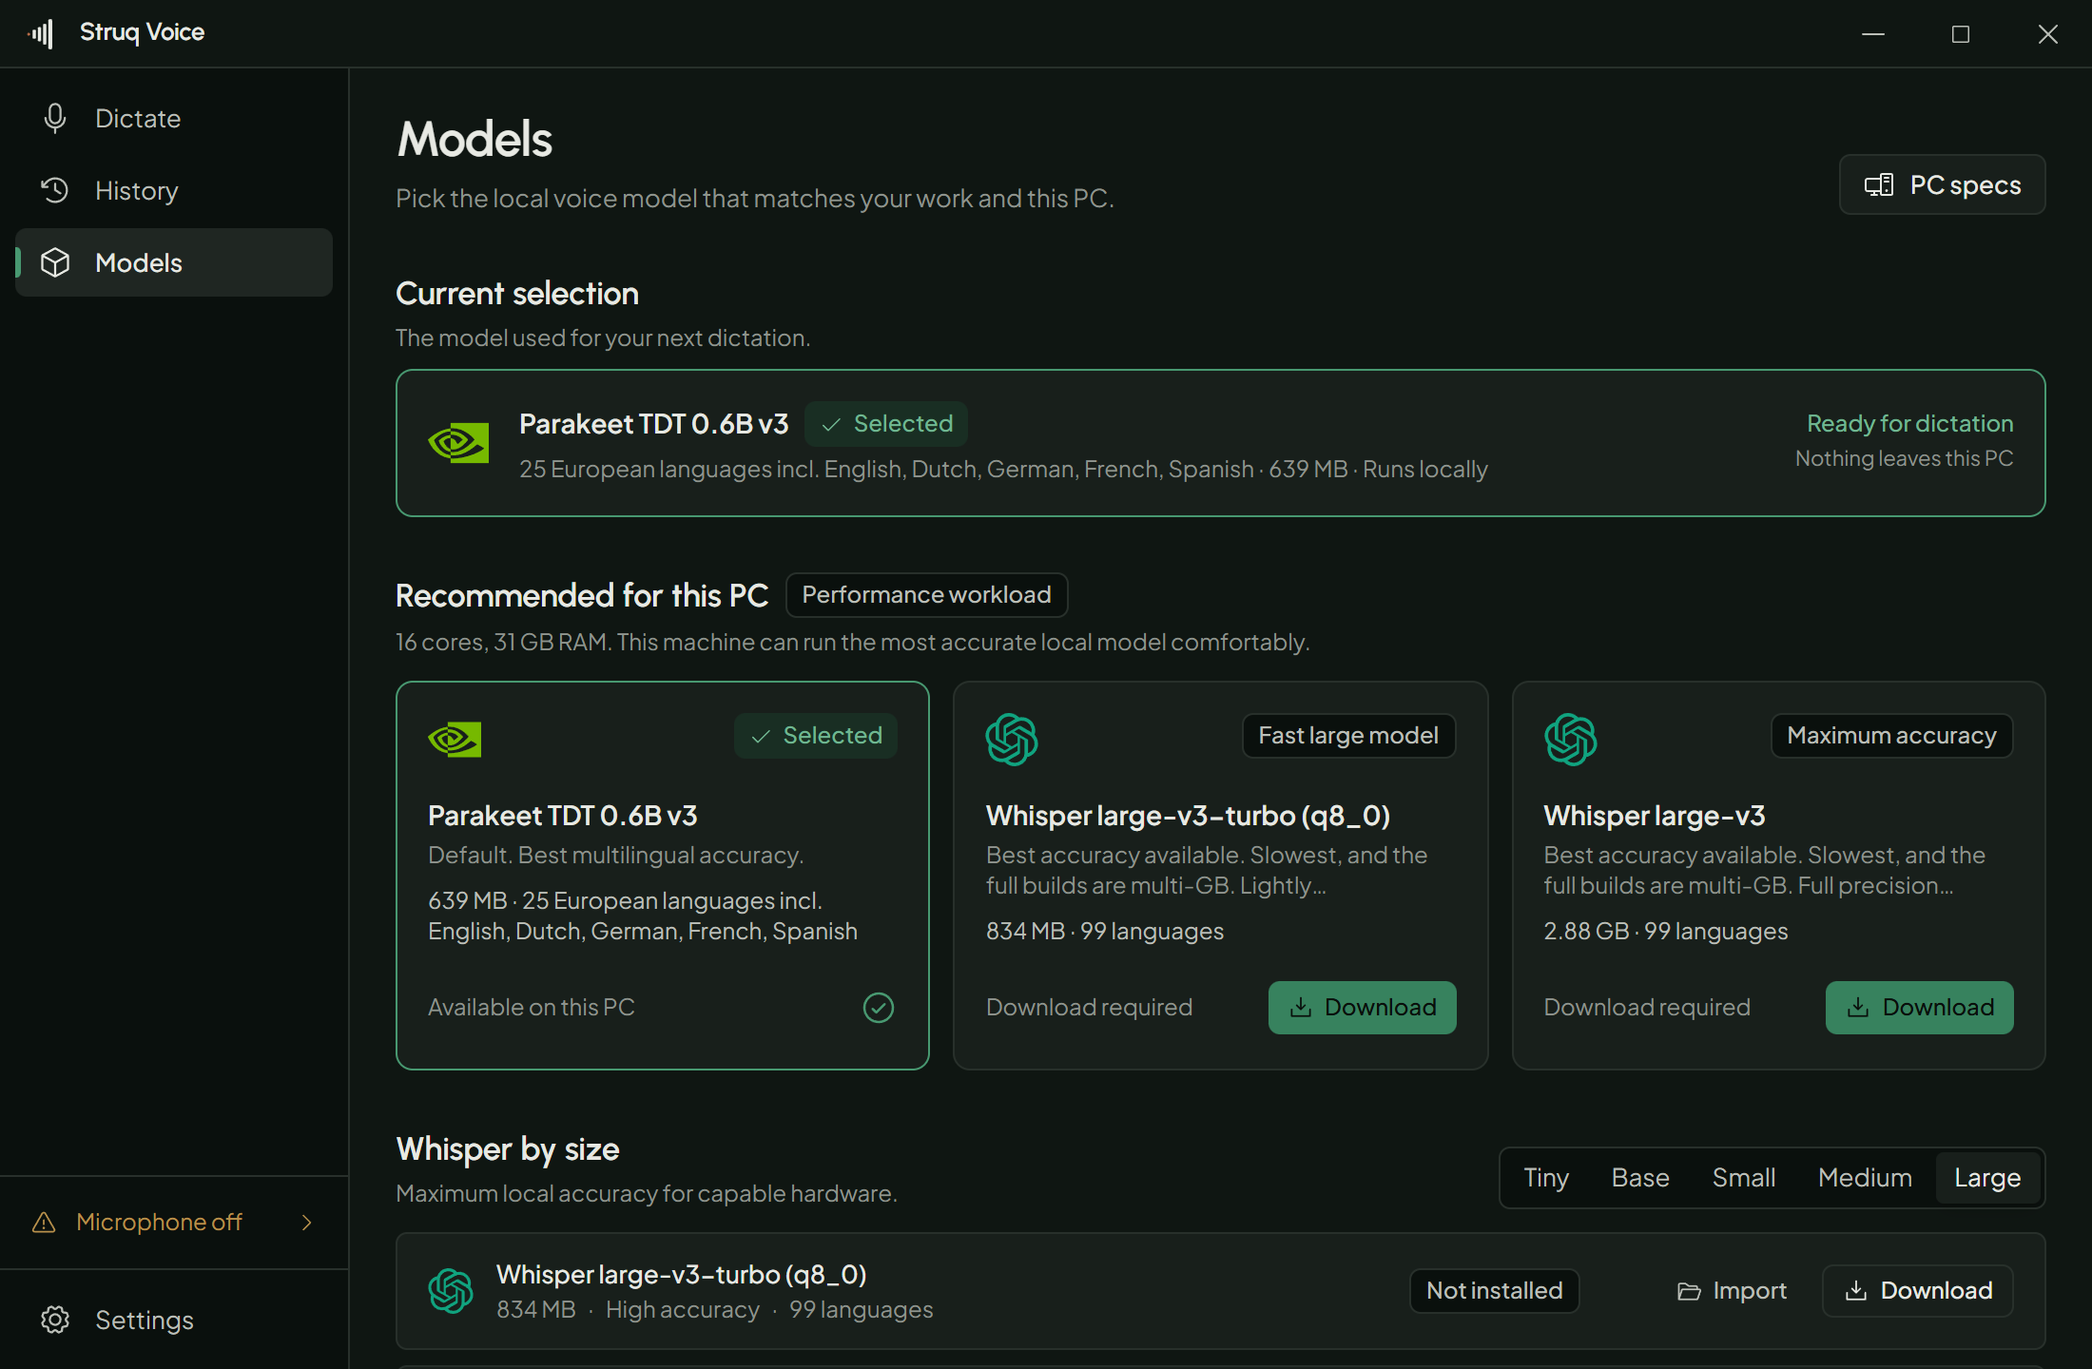
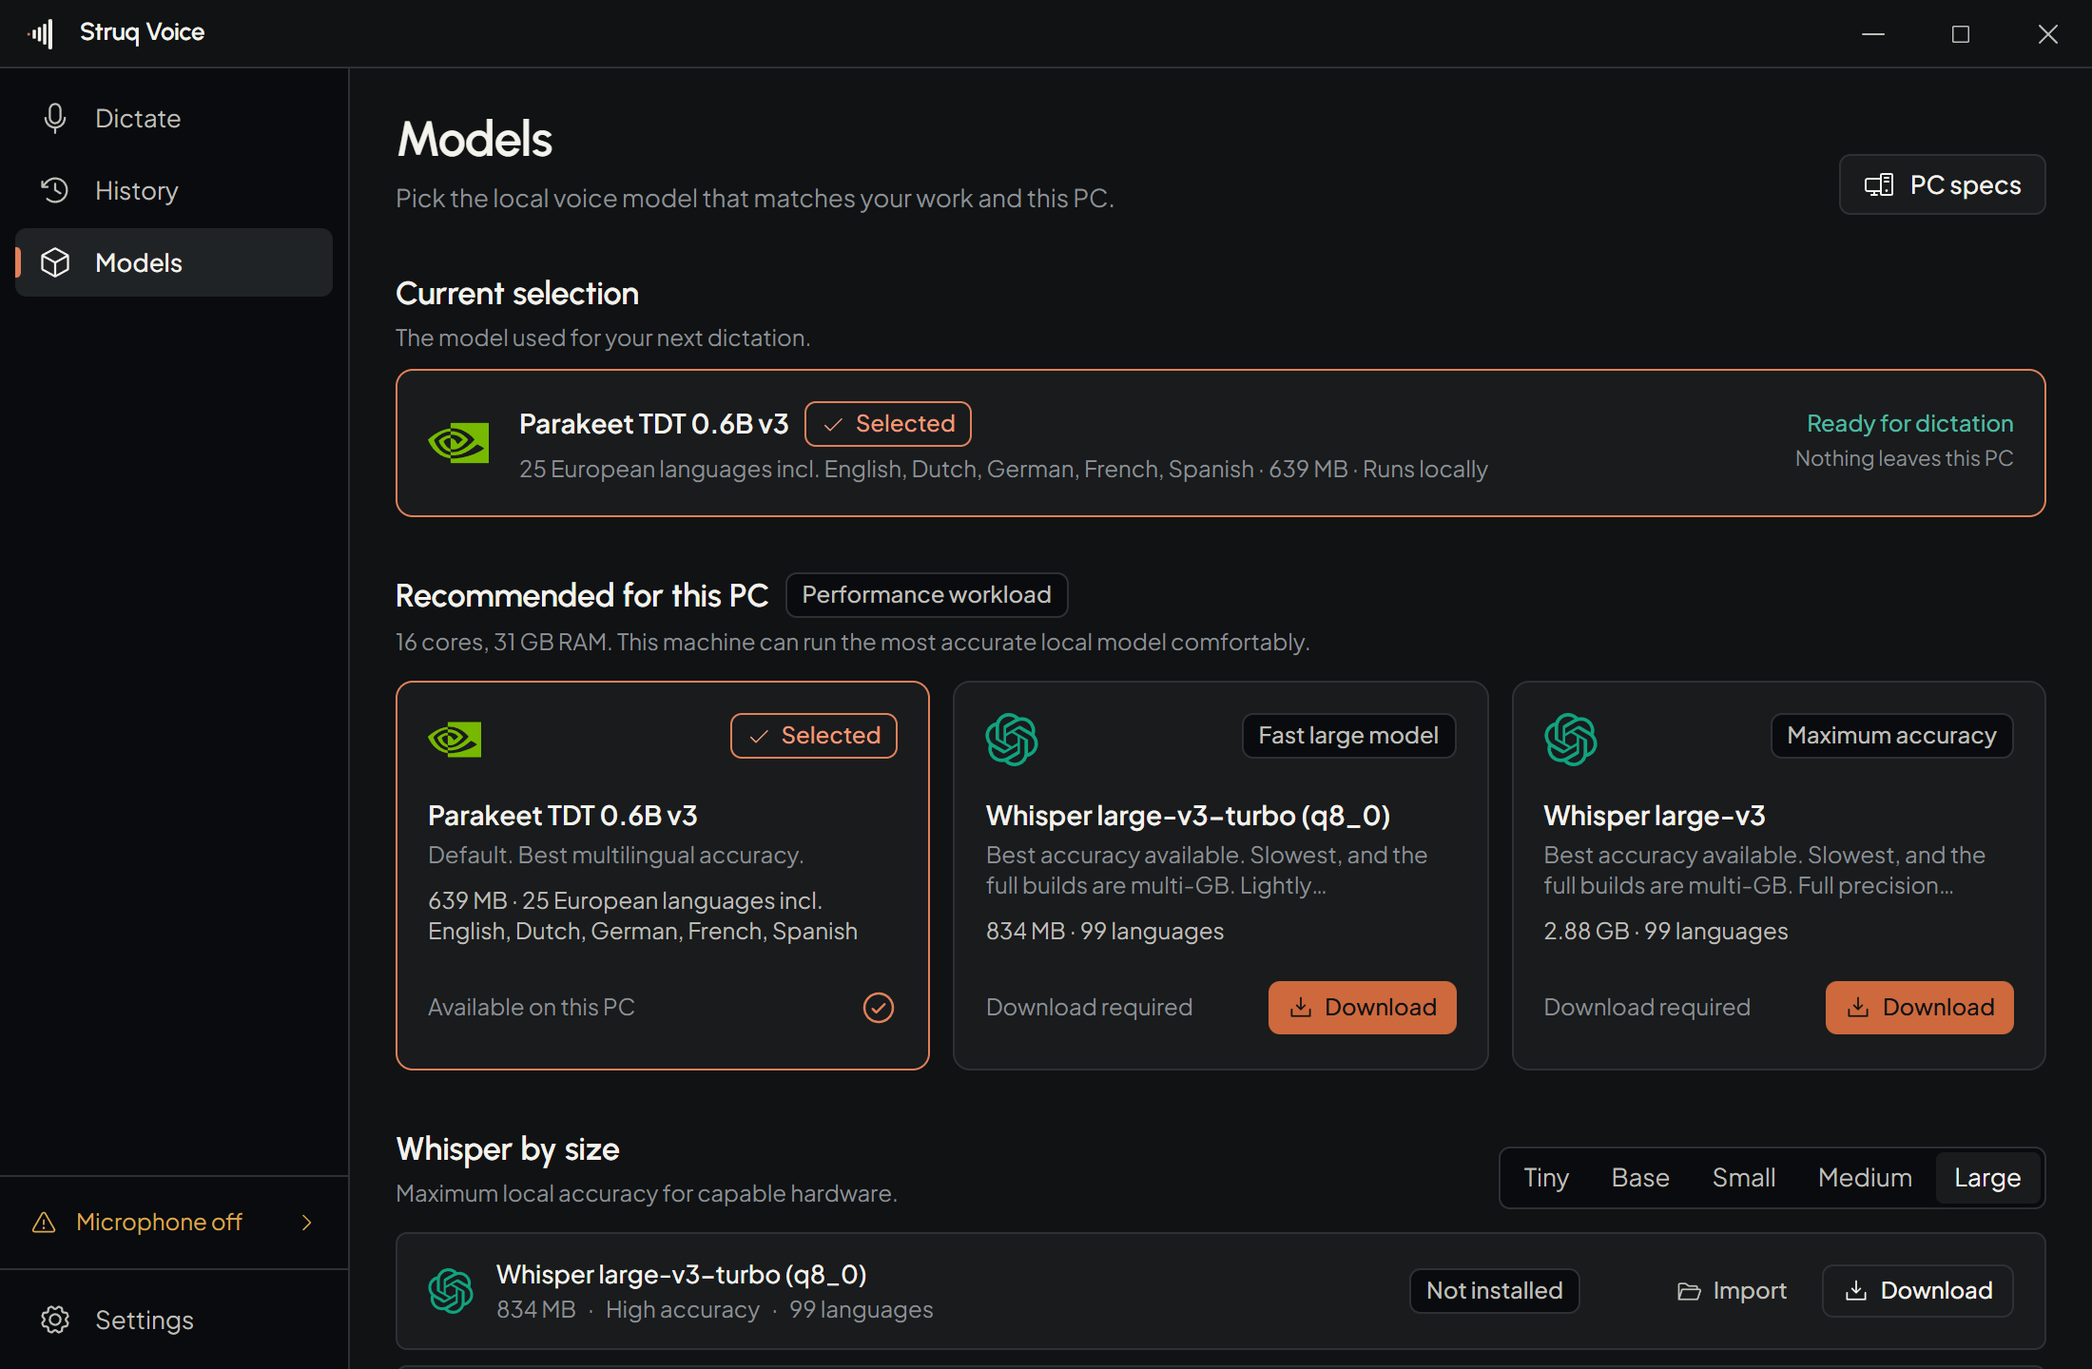
feat: implement full-window onboarding, hardware profiling, theme configuration, and audio visualizer components

diff --git a/src/renderer/styles/theme.css b/src/renderer/styles/theme.css
@@ -7,12 +7,13 @@
    regenerating any CSS.
 
    The semantic set (bg, surface, text, border, accent, state-*) is stable
-   across both palettes. Hue and chroma hold, lightness moves.
+   across both palettes. The role holds even where dark mode deliberately
+   moves the interaction accent from evergreen to terracotta.
 
    Every *-soft token is opaque, never an alpha of its base colour. A
    translucent fill composites with whatever sits behind it, so the same
    badge reads differently on bg, on surface, and on the transparent overlay
-   window. Each tint is authored per theme instead.
+   window. Dark soft states resolve to the same opaque neutral surface.
 
    DENSITY CONTRACT. This is a desktop chrome, not a document. Use Tailwind's
    native 4px scale and pick from these sizes only:
@@ -137,33 +138,33 @@
 
 :root[data-theme="dark"] {
   color-scheme: dark;
-  --sv-bg: oklch(0.19 0.012 160);
-  --sv-bg-sunken: oklch(0.165 0.012 160);
-  --sv-surface: oklch(0.23 0.013 160);
-  --sv-surface-hover: oklch(0.26 0.013 160);
-  --sv-surface-active: oklch(0.29 0.014 160);
-  --sv-text: oklch(0.93 0.008 120);
-  --sv-text-secondary: oklch(0.8 0.01 130);
-  --sv-text-muted: oklch(0.66 0.012 140);
-  --sv-text-inverse: oklch(0.16 0.012 160);
-  --sv-border: oklch(0.3 0.014 160);
-  --sv-border-strong: oklch(0.38 0.015 160);
-  --sv-accent: oklch(0.62 0.1 160);
-  --sv-accent-solid: oklch(0.55 0.095 160);
-  --sv-accent-solid-hover: oklch(0.59 0.095 160);
-  --sv-accent-solid-active: oklch(0.63 0.095 160);
-  --sv-accent-text: oklch(0.72 0.09 160);
-  --sv-accent-soft: oklch(0.28 0.035 160);
-  --sv-ember: oklch(0.65 0.12 45);
-  --sv-ember-soft: oklch(0.3 0.04 45);
-  --sv-success: oklch(0.68 0.1 155);
-  --sv-success-soft: oklch(0.28 0.035 155);
-  --sv-warning: oklch(0.68 0.1 80);
-  --sv-warning-soft: oklch(0.29 0.04 80);
-  --sv-danger: oklch(0.62 0.13 25);
-  --sv-danger-soft: oklch(0.28 0.045 25);
-  --sv-info: oklch(0.66 0.07 230);
-  --sv-info-soft: oklch(0.28 0.03 230);
+  --sv-bg: oklch(0.18 0.005 250);
+  --sv-bg-sunken: oklch(0.15 0.006 250);
+  --sv-surface: oklch(0.22 0.006 250);
+  --sv-surface-hover: oklch(0.255 0.007 250);
+  --sv-surface-active: oklch(0.285 0.008 250);
+  --sv-text: oklch(0.96 0.008 95);
+  --sv-text-secondary: oklch(0.8 0.008 95);
+  --sv-text-muted: oklch(0.65 0.008 250);
+  --sv-text-inverse: oklch(0.18 0.005 250);
+  --sv-border: oklch(0.31 0.008 250);
+  --sv-border-strong: oklch(0.4 0.01 250);
+  --sv-accent: oklch(0.7 0.13 43);
+  --sv-accent-solid: oklch(0.63 0.14 43);
+  --sv-accent-solid-hover: oklch(0.68 0.14 43);
+  --sv-accent-solid-active: oklch(0.58 0.14 43);
+  --sv-accent-text: oklch(0.76 0.11 43);
+  --sv-accent-soft: var(--sv-surface-active);
+  --sv-ember: oklch(0.7 0.13 43);
+  --sv-ember-soft: var(--sv-surface-active);
+  --sv-success: oklch(0.72 0.105 175);
+  --sv-success-soft: var(--sv-surface-active);
+  --sv-warning: oklch(0.76 0.12 80);
+  --sv-warning-soft: var(--sv-surface-active);
+  --sv-danger: oklch(0.68 0.16 28);
+  --sv-danger-soft: var(--sv-surface-active);
+  --sv-info: oklch(0.7 0.1 260);
+  --sv-info-soft: var(--sv-surface-active);
 }
 
 /* ---------------------------------------------------------------------------

diff --git a/src/renderer/main/views/settings/CaptureTab.tsx b/src/renderer/main/views/settings/CaptureTab.tsx
@@ -1,4 +1,6 @@
+import { useEffect, useState } from "react";
 import type { JSX } from "react";
+import { Icon } from "@iconify/react";
 import type { MainWindowApi } from "../../../../shared/api";
 import type { RecorderDevice } from "../../../../shared/ipc";
 import type { Settings } from "../../../../shared/settings";
@@ -12,6 +14,7 @@ import {
   Slider,
   Switch
 } from "../../components/ui";
+import { MicrophoneMeter } from "../../components/MicrophoneMeter";
 
 /**
  * The Capture settings tab: the keys, the microphone, the sounds Struq
@@ -33,6 +36,17 @@ export function CaptureTab({
   devices,
   currentDeviceId
 }: CaptureTabProps): JSX.Element {
+  const [level, setLevel] = useState(0);
+
+  useEffect(() => {
+    return api.onCaptureLevelsChanged(({ level: next }) => {
+      setLevel((current) => Math.max(current * 0.6, next * 0.4));
+    });
+  }, [api]);
+
+  const meterValue = Math.min(100, Math.max(0, Math.round(level * 100)));
+  const signalDetected = meterValue >= 3;
+
   return (
     <div className="flex flex-col gap-6">
       <SettingsGroup
@@ -94,6 +108,24 @@ export function CaptureTab({
             </div>
           }
         />
+        <div className="px-4 py-3">
+          <div className="mb-2 flex items-center justify-between gap-3">
+            <div className="flex min-w-0 items-center gap-2">
+              <Icon
+                icon="ph:waveform"
+                className={signalDetected ? "h-4 w-4 shrink-0 text-accent" : "h-4 w-4 shrink-0 text-text-muted"}
+                aria-hidden="true"
+              />
+              <span className="text-xs font-medium text-text">
+                {signalDetected ? "Signal detected" : "Speak to test your microphone"}
+              </span>
+            </div>
+            <span className="shrink-0 text-2xs text-text-muted tabular-nums" data-numeric>
+              {String(meterValue)}%
+            </span>
+          </div>
+          <MicrophoneMeter level={level} label="Microphone test level" />
+        </div>
       </SettingsGroup>
 
       <SettingsGroup

diff --git a/src/renderer/main/components/ui/StatusDot.tsx b/src/renderer/main/components/ui/StatusDot.tsx
@@ -1,14 +1,13 @@
 import type { JSX } from "react";
 import { cn } from "../../lib/cn";
+import { RecordingBall } from "../../../shared/RecordingBall";
 
 /**
  * A small filled dot. Colour alone names the state of whatever it sits next
  * to: red for an error, green for ready and live capture.
  *
- * It does not pulse. An indicator that breathes forever draws the eye to a
- * thing that is not changing, and it is the loudest generic-web-app tell in
- * a desktop chrome. Live capture already has the overlay waveform, which
- * moves because the audio is actually moving.
+ * Static states do not pulse. Listening replaces the dot with the supplied
+ * bouncing-ball mark because that motion represents a capture in progress.
  */
 export type StatusState =
   | "idle"
@@ -40,13 +39,19 @@ const STATE_COLOR: Record<StatusState, string> = {
 };
 
 export function StatusDot({ state, size = "md", className }: StatusDotProps): JSX.Element {
+  if (state === "listening") {
+    return (
+      <RecordingBall
+        className={cn(size === "sm" ? "h-3 w-3" : "h-4 w-4", className)}
+      />
+    );
+  }
+
   const sizeClass = size === "sm" ? "h-1.5 w-1.5" : "h-2 w-2";
   return (
-    <span className={cn("relative inline-flex shrink-0", sizeClass, className)} aria-hidden="true">
-      {state === "listening" && (
-        <span className="absolute inset-0 rounded-pill bg-success opacity-40 motion-safe:animate-ping" />
-      )}
-      <span className={cn("relative h-full w-full rounded-pill", STATE_COLOR[state])} />
-    </span>
+    <span
+      className={cn("inline-flex shrink-0 rounded-pill", sizeClass, STATE_COLOR[state], className)}
+      aria-hidden="true"
+    />
   );
 }

diff --git a/src/renderer/main/lib/theme-contract.test.ts b/src/renderer/main/lib/theme-contract.test.ts
@@ -1,0 +1,34 @@
+import { readFileSync } from "node:fs";
+import { resolve } from "node:path";
+import { describe, expect, it } from "vitest";
+
+const RENDERER_ROOT = resolve(__dirname, "../..");
+const THEME_SOURCE = readFileSync(resolve(RENDERER_ROOT, "styles/theme.css"), "utf8");
+
+const darkTheme = (): string => {
+  const match = THEME_SOURCE.match(/:root\[data-theme="dark"\]\s*\{([\s\S]*?)\n\}/);
+  return match?.[1] ?? "";
+};
+
+describe("dark theme contract", () => {
+  it("uses neutral graphite surfaces and terracotta interaction emphasis", () => {
+    const source = darkTheme();
+    expect(source).toContain("--sv-bg: oklch(0.18 0.005 250)");
+    expect(source).toContain("--sv-surface: oklch(0.22 0.006 250)");
+    expect(source).toContain("--sv-accent: oklch(0.7 0.13 43)");
+  });
+
+  it("keeps every soft semantic state opaque and neutral", () => {
+    const source = darkTheme();
+    for (const token of ["accent", "ember", "success", "warning", "danger", "info"]) {
+      expect(source).toContain(`--sv-${token}-soft: var(--sv-surface-active)`);
+    }
+    expect(source).not.toMatch(/oklch\([^)]*\//);
+  });
+
+  it("does not restore a translucent green listening pulse", () => {
+    const overlay = readFileSync(resolve(RENDERER_ROOT, "overlay/overlay.tsx"), "utf8");
+    const statusDot = readFileSync(resolve(RENDERER_ROOT, "main/components/ui/StatusDot.tsx"), "utf8");
+    expect(`${overlay}\n${statusDot}`).not.toMatch(/bg-success[^"\n]*opacity|bg-success\//);
+  });
+});

diff --git a/src/renderer/main/views/DictateView.tsx b/src/renderer/main/views/DictateView.tsx
@@ -3,6 +3,7 @@ import type { JSX } from "react";
 import { Icon } from "@iconify/react";
 import { useMainStore } from "../store/use-main-store";
 import { PageBody } from "../components/PageHeader";
+import { MicrophoneMeter } from "../components/MicrophoneMeter";
 import { Button, IconButton, Kbd, SettingsGroup, StatTile, Sparkline } from "../components/ui";
 import type { MainWindowApi } from "../../../shared/api";
 import type { Settings } from "../../../shared/settings";
@@ -152,8 +153,6 @@ export function DictateView(): JSX.Element {
         : null;
 
   const phaseLabel = PHASE_LABEL[capture.phase];
-  const meterWidth = Math.min(100, Math.round(level * 100));
-
   return (
     <div className="flex h-full flex-col bg-bg">
       <PageBody>
@@ -237,19 +236,7 @@ export function DictateView(): JSX.Element {
               <Kbd accelerator={settings.toggleAccelerator} size="md" />
             </div>
           </div>
-          <div
-            className="h-1 w-full overflow-hidden rounded-pill bg-bg-sunken"
-            role="meter"
-            aria-valuemin={0}
-            aria-valuemax={100}
-            aria-valuenow={meterWidth}
-            aria-label="Microphone level"
-          >
-            <div
-              className="h-full rounded-pill bg-accent transition-[width] duration-75"
-              style={{ width: `${String(meterWidth)}%` }}
-            />
-          </div>
+          <MicrophoneMeter level={level} />
         </div>
 
         <SettingsGroup

diff --git a/src/renderer/overlay/overlay.tsx b/src/renderer/overlay/overlay.tsx
@@ -7,6 +7,7 @@ import type { CaptureState } from "../../shared/capture";
 import { INITIAL_CAPTURE_STATE } from "../../shared/capture";
 import { Waveform } from "./Waveform";
 import { useDragPanel } from "./useDragPanel";
+import { RecordingBall } from "../shared/RecordingBall";
 
 const BAR_COUNT = 32;
 const SILENT_BANDS: readonly number[] = Array.from({ length: BAR_COUNT }, () => 0);
@@ -20,21 +21,18 @@ const formatElapsed = (ms: number): string => {
 };
 
 function StateDot({ state }: { readonly state: "arming" | "listening" | "transcribing" | "error" }): JSX.Element {
+  if (state === "listening") {
+    return <RecordingBall className="h-4 w-4" />;
+  }
+
   const color =
-    state === "listening"
-      ? "var(--sv-success)"
-      : state === "transcribing"
+    state === "transcribing"
         ? "var(--sv-info)"
         : state === "error"
           ? "var(--sv-danger)"
           : "var(--sv-accent)";
   return (
-    <span className="relative flex h-2 w-2 shrink-0" aria-hidden="true">
-      {state === "listening" && (
-        <span className="absolute inset-0 rounded-pill bg-success opacity-40 motion-safe:animate-ping" />
-      )}
-      <span className="relative h-full w-full rounded-pill" style={{ backgroundColor: color }} />
-    </span>
+    <span className="h-2 w-2 shrink-0 rounded-pill" style={{ backgroundColor: color }} aria-hidden="true" />
   );
 }
 

diff --git a/src/renderer/shared/RecordingBall.tsx b/src/renderer/shared/RecordingBall.tsx
@@ -1,0 +1,34 @@
+import { useId } from "react";
+import type { JSX } from "react";
+import { useReducedMotion } from "motion/react";
+import bouncingBallSvg from "../../../bouncing-ball.svg?raw";
+
+export interface RecordingBallProps {
+  readonly className?: string;
+}
+
+/** The supplied recording mark, themed through currentColor and static when motion is reduced. */
+export function RecordingBall({ className = "h-4 w-4" }: RecordingBallProps): JSX.Element {
+  const reducedMotion = useReducedMotion();
+  const instanceId = useId().replaceAll(":", "");
+  const markup = bouncingBallSvg
+    .replaceAll("spinner_jbYs", `${instanceId}_drop`)
+    .replaceAll("spinner_ADF4", `${instanceId}_squash`)
+    .replaceAll("spinner_JZdr", `${instanceId}_rise`);
+
+  if (reducedMotion === true) {
+    return (
+      <svg viewBox="0 0 24 24" className={`${className} shrink-0 text-success`} aria-hidden="true">
+        <circle cx="12" cy="12" r="4" fill="currentColor" />
+      </svg>
+    );
+  }
+
+  return (
+    <span
+      className={`inline-flex shrink-0 text-success [&>svg]:h-full [&>svg]:w-full ${className}`}
+      aria-hidden="true"
+      dangerouslySetInnerHTML={{ __html: markup }}
+    />
+  );
+}

diff --git a/src/renderer/main/components/MicrophoneMeter.tsx b/src/renderer/main/components/MicrophoneMeter.tsx
@@ -1,0 +1,33 @@
+import type { JSX } from "react";
+import { cn } from "../lib/cn";
+
+export interface MicrophoneMeterProps {
+  readonly level: number;
+  readonly label?: string;
+  readonly className?: string;
+}
+
+/** Shared warm-microphone feedback used anywhere the user needs to verify input. */
+export function MicrophoneMeter({
+  level,
+  label = "Microphone level",
+  className
+}: MicrophoneMeterProps): JSX.Element {
+  const meterWidth = Math.min(100, Math.max(0, Math.round(level * 100)));
+
+  return (
+    <div
+      className={cn("h-1 w-full overflow-hidden rounded-pill bg-bg-sunken", className)}
+      role="meter"
+      aria-valuemin={0}
+      aria-valuemax={100}
+      aria-valuenow={meterWidth}
+      aria-label={label}
+    >
+      <div
+        className="h-full rounded-pill bg-accent transition-[width] duration-75"
+        style={{ width: `${String(meterWidth)}%` }}
+      />
+    </div>
+  );
+}

diff --git a/src/renderer/main/onboarding/Onboarding.tsx b/src/renderer/main/onboarding/Onboarding.tsx
@@ -149,7 +149,7 @@ export function Onboarding({ settings, capture, onFinished }: OnboardingProps): 
           transition={{ duration: 0.32, ease: [0.16, 1, 0.3, 1] }}
           className="flex w-full max-w-md flex-col items-center gap-4 text-center"
         >
-          <span className="flex h-12 w-12 items-center justify-center rounded-pill bg-success-soft text-success">
+          <span className="flex h-12 w-12 items-center justify-center rounded-pill border border-success bg-surface text-success">
             <Icon icon="ph:check" className="h-6 w-6" aria-hidden="true" />
           </span>
           <h1 className="font-display text-2xl font-semibold tracking-tight text-text">

diff --git a/src/renderer/main/components/ui/Badge.tsx b/src/renderer/main/components/ui/Badge.tsx
@@ -18,11 +18,11 @@ export interface BadgeProps {
 
 const TONE_CLASS: Record<BadgeTone, string> = {
   neutral: "bg-bg-sunken text-text-secondary border border-border",
-  accent: "bg-accent-soft text-accent-text",
+  accent: "border border-accent bg-surface text-accent-text",
   success: "border border-border bg-surface text-success",
   warning: "border border-border bg-surface text-warning",
   danger: "border border-border bg-surface text-danger",
-  ember: "bg-ember-soft text-ember",
+  ember: "border border-ember bg-surface text-ember",
   info: "border border-border bg-surface text-info"
 };
 

diff --git a/src/renderer/main/components/ui/HotkeyRecorder.tsx b/src/renderer/main/components/ui/HotkeyRecorder.tsx
@@ -71,7 +71,7 @@ export function HotkeyRecorder({
             onChange(next);
           }}
           className={cn(
-            "inline-flex h-8 cursor-pointer items-center gap-2 rounded-md border border-dashed border-accent bg-accent-soft px-3 text-sm text-accent-text"
+            "inline-flex h-8 cursor-pointer items-center gap-2 rounded-md border border-dashed border-accent bg-surface px-3 text-sm text-accent-text"
           )}
         >
           <Icon icon="ph:keyboard" className="h-4 w-4" aria-hidden="true" />

diff --git a/src/renderer/main/components/ui/IconButton.tsx b/src/renderer/main/components/ui/IconButton.tsx
@@ -45,7 +45,7 @@ export function IconButton({
     variant === "secondary" && "bg-surface text-text-secondary border border-border hover:bg-surface-hover hover:text-text active:bg-surface-active",
     variant === "ghost" && "text-text-secondary hover:bg-surface-hover hover:text-text active:bg-surface-active",
     variant === "danger" && "text-danger hover:bg-danger-soft",
-    active && "text-accent bg-accent-soft",
+    active && "border border-accent bg-surface-active text-accent",
     className
   );
 
